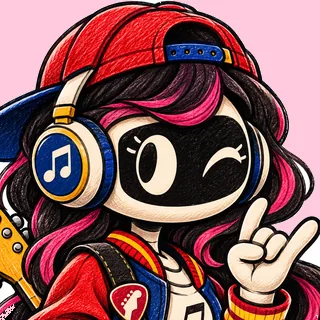
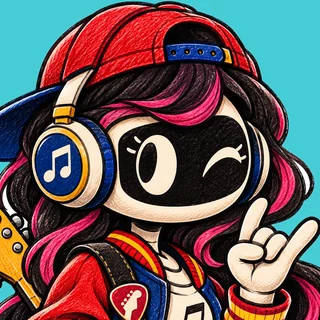
Billie: 3 artes com fundo colorido (turquesa, lilas, amarelo) como foto de perfil; lista do perfil quebra linha
Claude-Session: https://claude.ai/code/session_017Ekti2fSKtMrJGN2jcsFun

diff --git a/js/foto-opcoes.js b/js/foto-opcoes.js
@@ -3,7 +3,7 @@
 import * as D from './figurinhas/dono.js';
 const FOTO = 'perfil-foto';
 /** [id, texto do aria-label, arquivo] das artes prontas, na ordem de exibição. */
-export const ARTES = [...[1, 2, 3, 4, 5, 6].map((n) => [`paul-${n}`, `Paul ${n}`, `assets/paul/perfil/paul-${n}.webp`]), ['billie-1', 'Billie', 'assets/paul/perfil/billie-1.webp']];
+export const ARTES = [...[1, 2, 3, 4, 5, 6].map((n) => [`paul-${n}`, `Paul ${n}`, `assets/paul/perfil/paul-${n}.webp`]), ...[1, 2, 3].map((n) => [`billie-${n}`, `Billie ${n}`, `assets/paul/perfil/billie-${n}.webp`])];
 /** Paul da época (Natal, Páscoa, Dia das Mães…): vem primeiro na lista durante o período. Fora dele não existe. */
 export const epoca = () => { try { const e = window.BtSazonal && window.BtSazonal.estacaoDe(new Date()); return e ? { id: e.id, rotulo: e.rotulo, oi: e.oi, rosto: `assets/sazonal/rosto-${e.id}.webp`, corpo: `assets/sazonal/paul-${e.id}.webp` } : null; } catch { return null; } };
 /** Artes pra escolher agora: a da época (se houver) + as de sempre. */

diff --git a/css/jogos.css b/css/jogos.css
@@ -1744,7 +1744,7 @@ button.dc-chip{cursor:pointer;min-height:36px}
 .pf-paul-op{width:52px;height:52px;padding:0;border:2px solid #162146;border-radius:50%!important;overflow:hidden;background:#fff;box-shadow:2px 3px 0 #162146;cursor:pointer}
 .pf-paul-op img{width:100%;height:100%;object-fit:cover;display:block;border-radius:50%!important}
 .pf-sala small{display:block;font-weight:600;margin-top:2px}
-.pf-top .pf-paules{grid-column:1/-1}.pf-paules-lista{justify-content:space-between;flex-wrap:nowrap}
+.pf-top .pf-paules{grid-column:1/-1}.pf-paules-lista{justify-content:flex-start;flex-wrap:wrap;gap:8px}
 .pf-paules .pf-paul-op{width:42px;height:42px;flex:none;aspect-ratio:1}
 /* Pauls: embaixo do código, na coluna da esquerda, 2 por linha (pedido da Bea) */
 .pf-left .pf-paules{width:100%}.pf-left .pf-paules p{text-align:center}

diff --git a/sw.js b/sw.js
@@ -369,6 +369,9 @@ const EXTRA = [
   'assets/paul/perfil/paul-4.webp',
   'assets/paul/perfil/paul-5.webp',
   'assets/paul/perfil/paul-6.webp',
+  'assets/paul/perfil/billie-1.webp',
+  'assets/paul/perfil/billie-2.webp',
+  'assets/paul/perfil/billie-3.webp',
   'assets/paul/sprites/bateria-down.webp',
   'assets/paul/sprites/bateria-idle_01.webp',
   'assets/paul/sprites/bateria-idle_02.webp',
